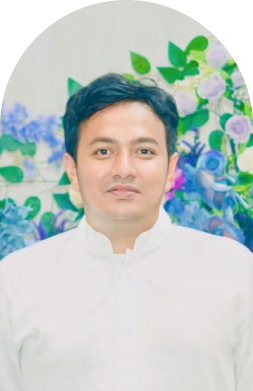
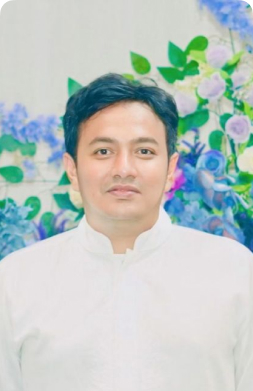
about baru

Changed region(s): [[0.581, 0.0, 1.0, 0.3069], [0.0, 0.0, 0.4427, 0.3069]]

diff --git a/about.html b/about.html
@@ -84,116 +84,60 @@
         </div>
       </div>
 
-      <!-- Profiles Section -->
-      <div class="row g-4 mb-5">
-        <!-- Tampilan pertama (di atas) -->
-        <div class="col-md-12 d-flex mb-3">
-          <div class="d-flex flex-row custom-right-position">
-            <div
-              class="card-body d-flex flex-column justify-content-center custom-left-position"
-            >
-              <h3 class="card-title">Vikan Soraya</h3>
-              <h5 class="card-title">Owner</h5>
-              <p class="card-text">
-                Lorem ipsum dolor sit amet, consectetur adipiscing elit. Sed do
-                eiusmod tempor incididunt ut labore et dolore magna aliqua.
-              </p>
-            </div>
-            <img
-              src="images/Rectangle 91.jpg"
-              class="card-img-top"
-              alt="John Doe"
-            />
-          </div>
-        </div>
+<!-- Profiles Section -->
+<div class="container text-center mb-5">
+  <h2>Our Team</h2>
+</div>
 
-        <!-- Tampilan kedua (di bawah) -->
-        <div class="col-md-12 d-flex mb-3">
-          <div class="d-flex flex-row custom-right-position1">
-            <!-- Gambar di kiri -->
-            <img
-              src="images/Rectangle 95.jpg"
-              class="card-img-top custom-img1"
-              alt="John Doe"
-            />
-            <!-- Teks di kanan -->
-            <div
-              class="card-body d-flex flex-column justify-content-center text-right custom-text-right"
-            >
-              <h3 class="card-title">Tiara Malinda</h3>
-              <h5 class="card-title">General Manager</h5>
-              <p class="card-text">
-                Lorem ipsum dolor sit amet, consectetur adipiscing elit. Sed do
-                eiusmod tempor incididunt ut labore et dolore magna aliqua.
-              </p>
-            </div>
-          </div>
-        </div>
-      </div>
-
-      <!-- Team Section -->
-      <div class="text-center mb-5">
-        <h2>Our Team</h2>
-      </div>
-      <!-- <div class="row g-4">
-        <div class="col-md-3 text-center">
-          <img
-            src="Rectangle 98.jpg"
-            alt="Member 1"
-            class="img-fluid rounded-circle mb-3 shadow-sm"
-          />
-          <h6>Member 1</h6>
-          <p class="text-muted">Position</p>
-        </div>
-        <div class="col-md-3 text-center">
-          <img
-            src="Rectangle 98.jpg"
-            alt="Member 2"
-            class="img-fluid rounded-circle mb-3 shadow-sm"
-          />
-          <h6>Member 2</h6>
-          <p class="text-muted">Position</p>
-        </div>
-        <div class="col-md-3 text-center">
-          <img
-            src="Rectangle 98.jpg"
-            alt="Member 3"
-            class="img-fluid rounded-circle mb-3 shadow-sm"
-          />
-          <h6>Member 3</h6>
-          <p class="text-muted">Position</p>
-        </div>
-        <div class="col-md-3 text-center">
-          <img
-            src="Rectangle 98.jpg"
-            alt="Member 4"
-            class="img-fluid rounded-circle mb-3 shadow-sm"
-          />
-          <h6>Member 4</h6>
-          <p class="text-muted">Position</p>
-        </div>
-      </div> -->
-    </div>
-    <!-- our team -->
-    <div class="container5">
-      <!-- Profile Card Kiri -->
-      <div class="profile-card">
-        <div class="profile-image">
-          <img src="images/Rectangle 98.jpg" alt="Jonathan" />
-        </div>
-        <div class="profile-name">Raja</div>
-        <div class="profile-role">Manager Operational</div>
-      </div>
-
-      <!-- Profile Card Kanan -->
-      <div class="profile-card">
-        <div class="profile-image">
-          <img src="images/Rectangle 99.jpg" alt="Sarah" />
-        </div>
-        <div class="profile-name">Adjeng B</div>
-        <div class="profile-role">Marketing Manager</div>
+<!-- Top Section -->
+<div class="container">
+  <div class="row g-4 mb-5">
+    <!-- Vikan Soraya (Owner) -->
+    <div class="col-md-6 d-flex justify-content-center">
+      <div class="team-card">
+        <img src="images/Rectangle 91.jpg" class="team-img" alt="Vikan Soraya" />
+        <h3 class="team-name">Vikan Soraya</h3>
+        <p class="team-role">Owner</p>
       </div>
     </div>
+    <!-- Tiara Malinda (General Manager) -->
+    <div class="col-md-6 d-flex justify-content-center">
+      <div class="team-card">
+        <img src="images/Rectangle 95.jpg" class="team-img" alt="Tiara Malinda" />
+        <h3 class="team-name">Tiara Malinda</h3>
+        <p class="team-role">General Manager</p>
+      </div>
+    </div>
+  </div>
+
+  <!-- Bottom Section -->
+  <div class="container mt-5">
+    <div class="row g-4 justify-content-center">
+      <!-- Raja (Operational Manager) -->
+      <div class="col-md-4 d-flex justify-content-center">
+        <div class="team-card">
+          <div class="team-image-wrapper">
+            <img src="images/Rectangle 98.jpg" class="team-img" alt="Raja" />
+            <div class="team-name-overlay">Raja</div>
+          </div>
+          <p class="team-role-1">Operational Manager</p>
+        </div>
+      </div>
+  
+      <!-- Adjeng B (Marketing Manager) -->
+      <div class="col-md-4 d-flex justify-content-center">
+        <div class="team-card">
+          <div class="team-image-wrapper">
+            <img src="images/Rectangle 99.jpg" class="team-img" alt="Adjeng B" />
+            <div class="team-name-overlay">Adjeng B</div>
+          </div>
+          <p class="team-role-1">Marketing Manager</p>
+        </div>
+      </div>
+    </div>
+  </div>
+</div>
+
 
     <!-- Footer -->
     <footer>

diff --git a/style.css b/style.css
@@ -235,7 +235,6 @@ h2 {
   margin: 0 auto;
   overflow: hidden;
   position: relative;
-  border-radius: 50% 50% 0 0; /* Membuat efek lengkung atas */
 }
 
 .profile-image img {
@@ -272,6 +271,45 @@ h2 {
   justify-content: space-between;
   flex-wrap: wrap;
   gap: 20px; /* Jarak antar card */
+}
+
+/* bentuk team-card */
+.team-image-wrapper {
+  position: relative;
+  width: 100%;
+  height: 380px; /* Tinggi gambar */
+  overflow: hidden;
+  border-radius: 20px;
+}
+
+/* Overlay Text on Image */
+.team-name-overlay {
+  position: absolute;
+  bottom: 10px;
+  left: 50%;
+  transform: translateX(-50%);
+  background-color: rgba(0, 0, 0, 0.6);
+  color: #fff;
+  padding: 8px 12px;
+  font-size: 1rem;
+  font-weight: bold;
+  border-radius: 8px;
+}
+
+/* Role Text */
+.team-role {
+  margin-top: 15px;
+  font-size: 1rem;
+  color: #555;
+  font-weight: normal;
+}
+
+.team-role-1 {
+  margin-top: 15px;
+  font-size: 1rem;
+  color: #555;
+  font-weight: normal;
+  text-align: center; /* Membuat teks berada di tengah */
 }
 
 /* RESPONSIVE TEAM CARDS */
